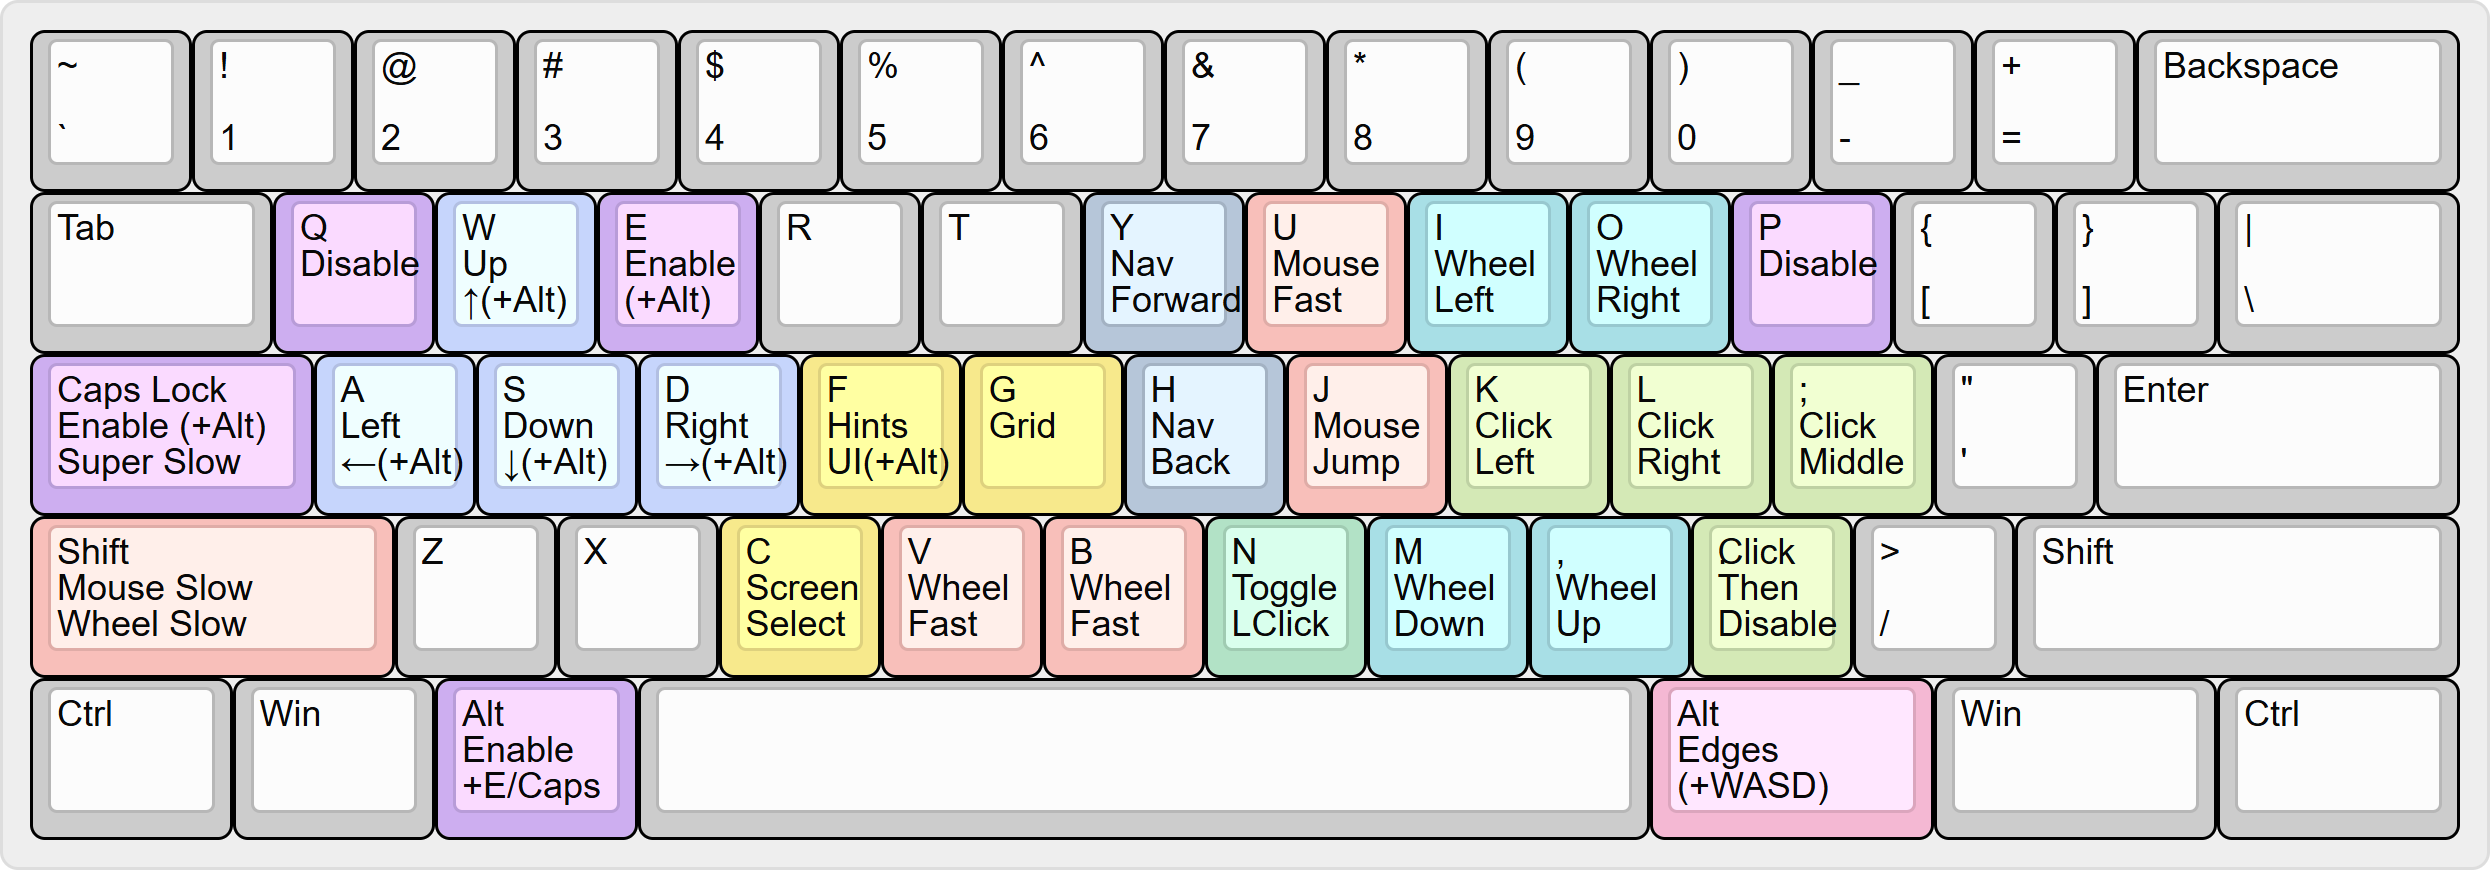
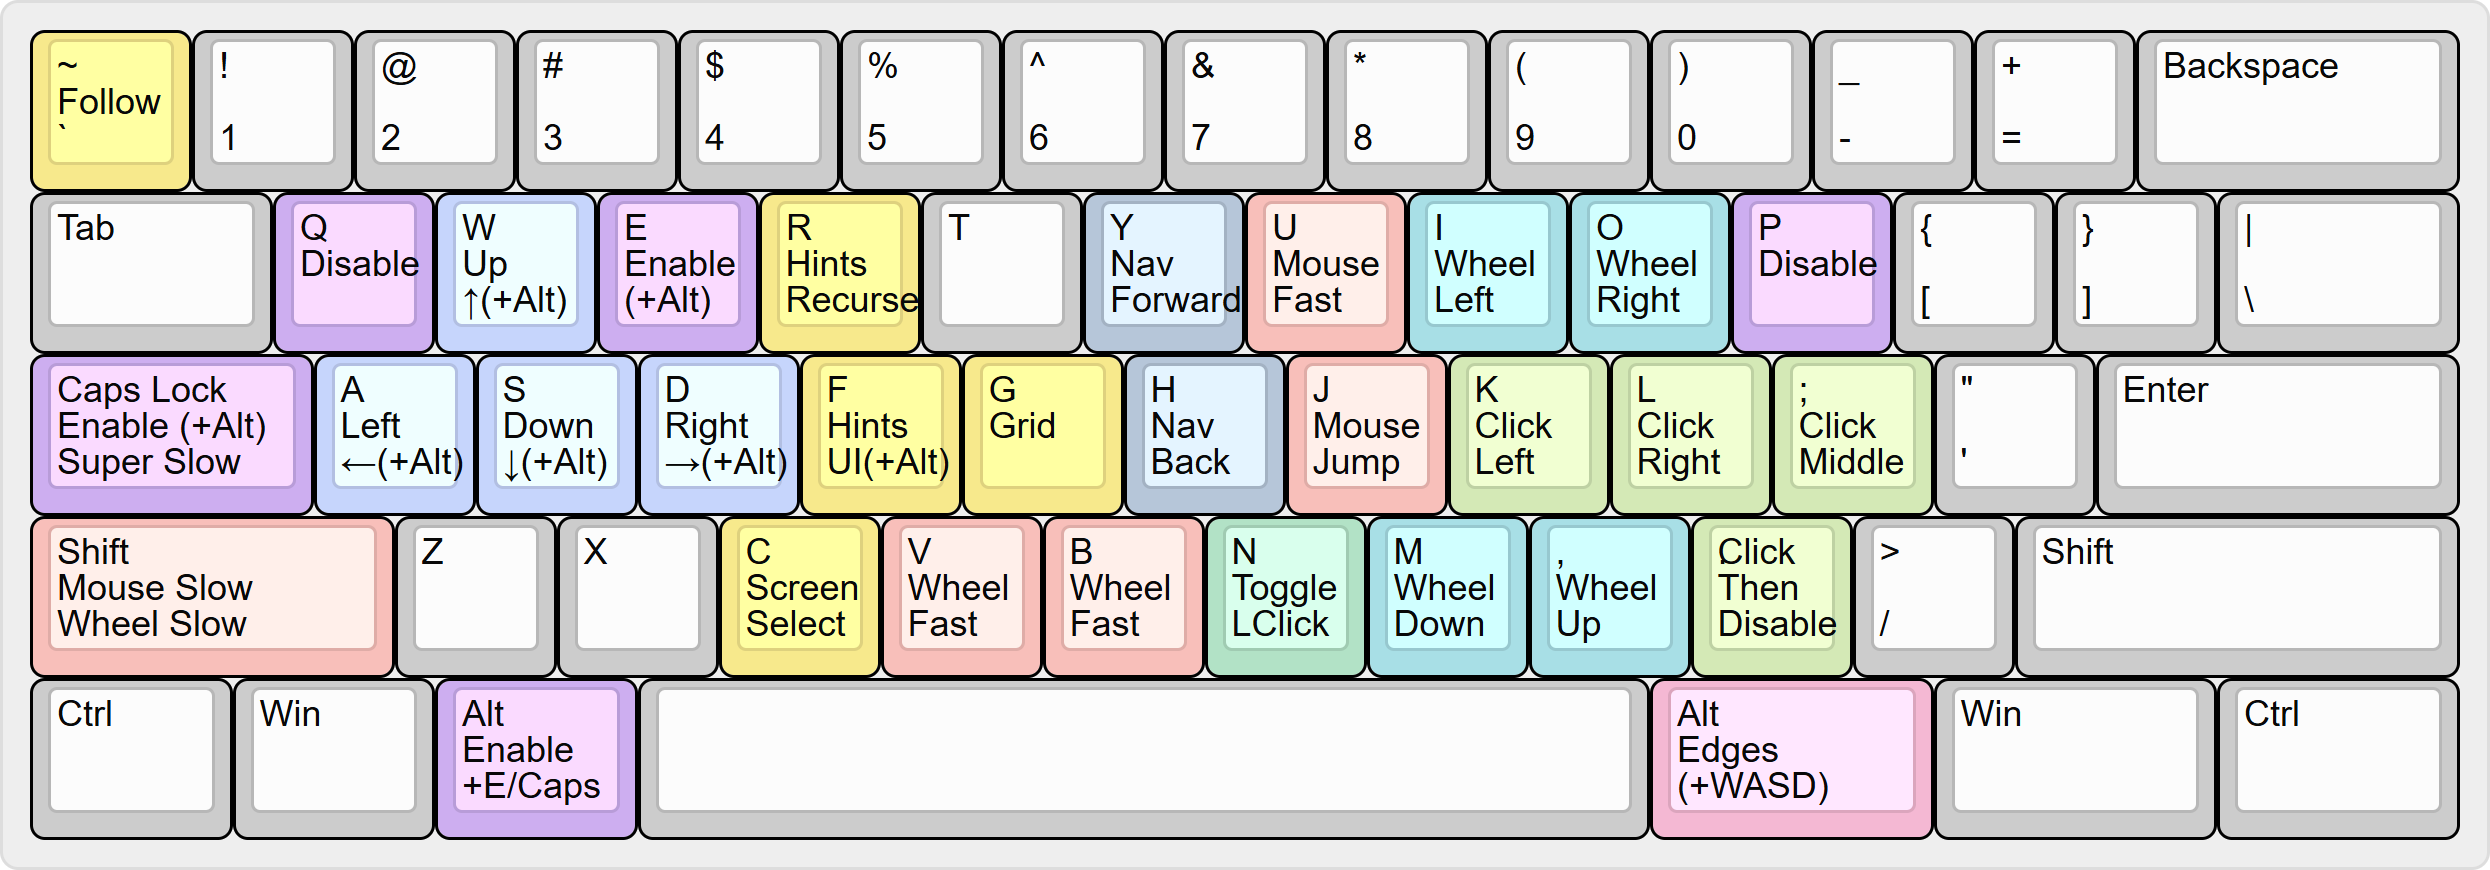
Add recursive hint to neo-mousekeys configurations

Changed region(s): [[0.0, 0.031, 0.0928, 0.2172], [0.2783, 0.2172, 0.3711, 0.4034]]

diff --git a/docs/neo-mousekeys-ijkl.md b/docs/neo-mousekeys-ijkl.md
@@ -49,6 +49,16 @@ _leftalt + leftarrow_ (for back) and _leftalt + rightarrow_ (for forward) to the
 - A balance between hint size, number and screen space is crucial and can be configured: see `hint.font-size`, `hint.grid-max-column-count`, and `hint.grid-cell-width` in [neo-mousekeys-ijkl.properties](../configuration/neo-mousekeys-ijkl.properties).
 - Go back to normal mode with _esc_ or _backspace_.
 
+## Recursive Hint Mode (_r_ in normal mode)
+
+- Display a 3x3 grid over the screen, positioned like the _r_, _t_, _y_, _f_, _g_, _h_, _v_, _b_, _n_ keys.
+- Press one of those keys to narrow the grid to that ninth of the current area, and repeat (up to five times) until the mouse is on target.
+- The mouse follows the center of the current area, so the drill can be left at any depth. Press _`_ (backtick) to leave the mouse where it is instead.
+- Press mouse buttons without leaving the drill, with the same keys as in normal mode.
+- Go back one level with _backspace_, back to the whole screen with _space_.
+- Go back to normal mode with _esc_.
+- Remove the `+` from `virtual-keys=+showrecursivehintkeys` in [neo-mousekeys-ijkl.properties](../configuration/neo-mousekeys-ijkl.properties) to replace the keys drawn in each cell with a plus over the current area and a dot per cell.
+
 ## UI Hint Mode (hold _leftalt_ then press _f_ in normal mode)
 
 - Display labels on interactive UI elements (buttons, links, etc.) of the active window.

diff --git a/docs/neo-mousekeys-wasd.md b/docs/neo-mousekeys-wasd.md
@@ -50,6 +50,16 @@ _leftalt + leftarrow_ (for back) and _leftalt + rightarrow_ (for forward) to the
 - A balance between hint size, number and screen space is crucial and can be configured: see `hint.font-size`, `hint.grid-max-column-count`, and `hint.grid-cell-width` in [neo-mousekeys-wasd.properties](../configuration/neo-mousekeys-wasd.properties).
 - Go back to normal mode with _esc_ or _backspace_.
 
+## Recursive Hint Mode (_r_ in normal mode)
+
+- Display a 3x3 grid over the screen, positioned like the _r_, _t_, _y_, _f_, _g_, _h_, _v_, _b_, _n_ keys.
+- Press one of those keys to narrow the grid to that ninth of the current area, and repeat (up to five times) until the mouse is on target.
+- The mouse follows the center of the current area, so the drill can be left at any depth. Press _`_ (backtick) to leave the mouse where it is instead.
+- Press mouse buttons without leaving the drill, with the same keys as in normal mode.
+- Go back one level with _backspace_, back to the whole screen with _space_.
+- Go back to normal mode with _esc_.
+- Remove the `+` from `virtual-keys=+showrecursivehintkeys` in [neo-mousekeys-wasd.properties](../configuration/neo-mousekeys-wasd.properties) to replace the keys drawn in each cell with a plus over the current area and a dot per cell.
+
 ## UI Hint Mode (hold _leftalt_ then press _f_ in normal mode)
 
 - Display labels on interactive UI elements (buttons, links, etc.) of the active window.

diff --git a/README.md b/README.md
@@ -120,6 +120,7 @@ permissions are needed.
 - **Mouse buttons**: _;_ (left), _rightshift_ (middle), _'_ (right)
 - **Grid mode**: Press _g_
 - **Hint mode**: Press _f_
+- **Recursive hint mode**: Press _r_
 - **UI Hint mode**: Press _leftalt + f_
 - **Screen selection**: Press _c_
 
